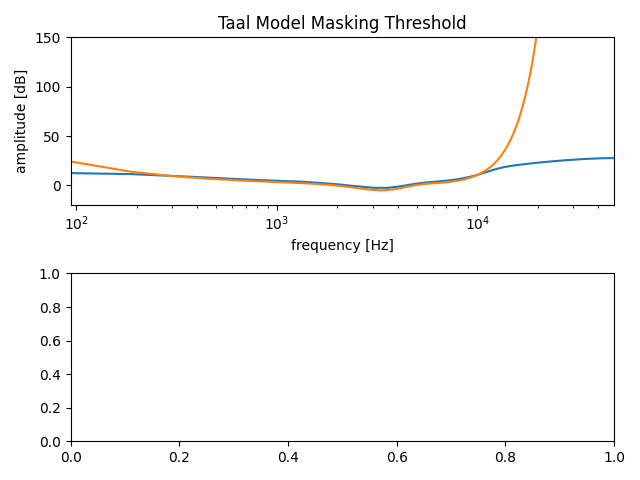
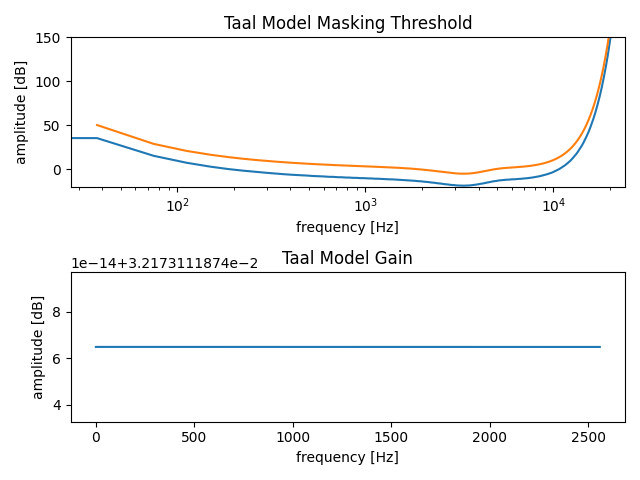
Changes

diff --git a/taal_model.py b/taal_model.py
@@ -3,6 +3,8 @@ import scipy as sp
 import scipy.signal
 import scipy.optimize
 
+import matplotlib.pyplot as plt
+
 from auditory_filter_bank import auditory_filter_bank
 from signal_pressure_mapping import signal_pressure_mapping
 from lowpass_filter import lowpass_filter
@@ -24,44 +26,44 @@ class taal_model:
         self.mapping = signal_pressure_mapping(1, 100)
 
         # Compute ear filter bank
-        self.auditory_filter_bank_freq = auditory_filter_bank(self.frequency_axis, 
-                self.sampling_rate, self.mapping).filter_bank
-        self.auditory_filter_bank_time = np.fft.irfft(self.auditory_filter_bank_freq)
-        self.N_auditory_filter = self.auditory_filter_bank_time[0].size
+        self.auditory_filter_bank_freq = auditory_filter_bank(
+                self.frequency_axis, 
+                self.sampling_rate, 
+                self.mapping, 
+                N_filters=self.N_filters, 
+                filter_order=self.filter_order).filter_bank
+
+        self.auditory_filter_bank_time = np.fft.irfft(self.auditory_filter_bank_freq, n=N_samples, axis=1)
         
         # Compute lowpass filter
-        self.N_convolved = self.N_samples + self.N_auditory_filter - 1
+        self.N_convolved = 2 * self.N_samples - 1
         self.convolved_frequency_axis = np.fft.rfftfreq(self.N_convolved, 1 / self.sampling_rate);
         self.lowpass_freq = lowpass_filter(self.convolved_frequency_axis, 1000, self.sampling_rate).filter_freq
-        self.lowpass_time = np.fft.irfft(self.lowpass_freq)
 
         # Coefficients
-        training_rate = 10000
+        training_rate = 1000
         sine_base = np.cos(2 * np.pi * training_rate / sampling_rate * np.arange(0, self.N_samples))
         sine_base_internal = self.__internal_representation(sine_base)
         sine_threshold_in_quiet = threshold_in_quiet(training_rate, self.mapping) * sine_base
         sine_threshold_in_quiet_internal = self.__internal_representation(sine_threshold_in_quiet)
         sine_masker = self.mapping.pressure_to_signal(70) * sine_base
         sine_masker_internal = self.__internal_representation(sine_masker)
-        sine_masked = self.mapping.pressure_to_signal(52) * sine_base
+        sine_masked = self.mapping.pressure_to_signal(69) * sine_base
         sine_masked_internal = self.__internal_representation(sine_masked)
-
         
         helper_function = lambda x, C2 : C2 * sum(np.linalg.norm(x, 1.0, axis=1))
         bisection_function = lambda C2 : helper_function(sine_masked_internal / (sine_masker_internal +
             helper_function(sine_threshold_in_quiet_internal, C2)), C2) - 1
 
         self.C2 = sp.optimize.bisect(bisection_function, 0, 100000)
-        print(self.C2)
         self.C1 = helper_function(sine_threshold_in_quiet_internal, self.C2)
-        print(self.C1)
 
     def gain_function(self, x):
         g = np.zeros((self.N_filters, self.N_convolved))
         y = self.__internal_representation(x)
         for i in range(0, self.N_filters):
             # Determine energy ratio
-            fr   = self.C2 / (y[i] + self.C1)
+            fr = (self.C2 * np.ones(self.N_convolved)) / (y[i] + self.C1 * np.ones(self.N_convolved))
             # Return filtered energy ratio
             g[i] = np.sqrt(np.fft.irfft(np.fft.rfft(fr) * self.lowpass_freq, n=self.N_convolved))
 
@@ -70,27 +72,26 @@ class taal_model:
     def __internal_representation(self, x):
         y = np.zeros((self.N_filters, self.N_convolved))
         for i in range(0, self.N_filters):
-            xi   = np.convolve(x, self.auditory_filter_bank_time[i])
-            y[i] = np.fft.irfft(np.fft.rfft(np.power(np.abs(xi), 2.0)) * self.lowpass_freq, n=self.N_convolved)
+            xi   = np.power(np.abs(np.convolve(x, self.auditory_filter_bank_time[i])), 2.0)
+            y[i] = np.fft.irfft(np.fft.rfft(xi) * self.lowpass_freq, n=self.N_convolved)
 
         return y;
 
     def detectability(self, x, e):
-        D = 0
-        g = self.gain_function(x)
-        for i in range(0, self.N_filters):
-            # Determine auditory-filtered e
-            ei = np.convolve(e, self.auditory_filter_bank_time[i])
-            D  = D + (np.linalg.norm(g[i] * ei) ** 2)
-
+        D = self.C2 * sum(np.linalg.norm((self.__internal_representation(e)) / (self.__internal_representation(x) + self.C1), 1.0, axis=1))
+        print(D)
         return D
 
-
     def masking_threshold(self, x):
-        t = np.zeros(self.convolved_frequency_axis.size)
-        for i in range(0, self.convolved_frequency_axis.size):
-            f = self.convolved_frequency_axis[i]
-            e = np.cos(2 * np.pi * f * np.arange(0, self.N_samples) / self.sampling_rate)
-            t[i] = 1 / np.sqrt(self.detectability(x, e))
+        gi = self.gain_function(x)
+        w  = np.power(sp.signal.windows.hann(self.N_convolved), 2.0)
+        t  = np.zeros(self.frequency_axis.size)
+        for k in range(0, self.frequency_axis.size):
+            s  = 0
+            for i in range(0, self.N_filters):
+                gih = np.fft.fft(w * gi[i])
+                hh = np.fft.fft(self.auditory_filter_bank_time[i])
+                s = s + np.power(hh[k], 2.0) * (0.5 * gih[0] + np.real(gih[2 * k]))
+            t[k] = 1 / np.sqrt(s)
 
         return t

diff --git a/test_auditory_filter_bank.py b/test_auditory_filter_bank.py
@@ -4,13 +4,14 @@ import numpy as np
 
 from auditory_filter_bank import auditory_filter_bank
 from signal_pressure_mapping import signal_pressure_mapping
+from threshold_in_quiet import threshold_in_quiet_db
 
 # Create a test-plot of the auditory filter bank
 def test_auditory_filter_bank_plot():
     # Define problem parameters
-    N_fft = 1024
+    N_fft = 10240
     N_filters = 64
-    sampling_rate = 96000.0
+    sampling_rate = 48000.0
     mapping = signal_pressure_mapping(1, 100)
 
     # Define x-axis
@@ -25,7 +26,7 @@ def test_auditory_filter_bank_plot():
     fig, axs = mpl.subplots(2)
 
     for auditory_filter_freq in auditory_filter_bank_freq:
-        axs[0].plot(frequencies, 20 * np.log10(np.abs(auditory_filter_freq)))
+        axs[0].semilogx(frequencies, 20 * np.log10(np.abs(auditory_filter_freq)))
 
     axs[0].set_title("Frequency Domain Auditory Filters")
     axs[0].set_xlabel("frequency [Hz]")
@@ -42,6 +43,21 @@ def test_auditory_filter_bank_plot():
 
     fig.tight_layout()
     fig.savefig("plots/test_auditory_filter_bank_plot.png")
+
+    # Create plots
+    fig, axs = mpl.subplots(1)
+
+    auditory_filter_bank_freq_sum = sum(np.abs(auditory_filter_bank_freq)) 
+    axs.semilogx(frequencies, mapping.signal_to_pressure(1 / auditory_filter_bank_freq_sum))
+    axs.semilogx(frequencies, threshold_in_quiet_db(frequencies))
+
+    axs.set_title("Frequency Domain Auditory Filters")
+    axs.set_xlabel("frequency [Hz]")
+    axs.set_ylabel("amplitude [dB]")
+    axs.set_xlim(min(frequencies[1:]), max(frequencies)) 
+
+    fig.tight_layout()
+    fig.savefig("plots/test_auditory_filter_bank_plot_inverted.png")
 
     # If execution makes it this far, the test has passed.
     assert True

diff --git a/test_taal_model.py b/test_taal_model.py
@@ -8,26 +8,33 @@ from threshold_in_quiet import threshold_in_quiet_db
 
 def test_taal_model():
     # Define problem parameters
-    N_samples = 512
-    sampling_rate = 96000.0
-    model = taal_model(sampling_rate, N_samples)
+    N_samples = 12800
+    sampling_rate = 48000.0
+    model = taal_model(sampling_rate, N_samples, N_filters=64)
     mapping = signal_pressure_mapping(1, 100)
 
     # Create masking threshold
     x = np.zeros(N_samples)
     threshold_freq = model.masking_threshold(x)
+    gain = model.gain_function(x)
 
     # Test
     fig, axs = mpl.subplots(2)
 
-    axs[0].semilogx(model.convolved_frequency_axis, mapping.signal_to_pressure(threshold_freq))
-    axs[0].semilogx(model.convolved_frequency_axis, threshold_in_quiet_db(model.convolved_frequency_axis))
+    axs[0].semilogx(model.frequency_axis, mapping.signal_to_pressure(threshold_freq))
+    axs[0].semilogx(model.frequency_axis, threshold_in_quiet_db(model.frequency_axis))
     axs[0].set_title("Taal Model Masking Threshold")
     axs[0].set_xlabel("frequency [Hz]")
     axs[0].set_ylabel("amplitude [dB]")
-    print(model.convolved_frequency_axis)
-    axs[0].set_xlim(min(model.convolved_frequency_axis[1:]), max(model.convolved_frequency_axis)) 
+    axs[0].set_xlim(min(model.frequency_axis), max(model.frequency_axis)) 
     axs[0].set_ylim(-20, 150) 
+
+    axs[1].plot(gain[0,:])
+    axs[1].set_title("Taal Model Gain")
+    axs[1].set_xlabel("frequency [Hz]")
+    axs[1].set_ylabel("amplitude [dB]")
+    # axs[1].set_xlim(min(model.convolved_frequency_axis), max(model.convolved_frequency_axis)) 
+    # axs[1].set_ylim(-20, 150) 
 
     fig.tight_layout()
     fig.savefig("plots/test_taal_model.png")

diff --git a/auditory_filter_bank.py b/auditory_filter_bank.py
@@ -16,8 +16,7 @@ class auditory_filter_bank:
         self.__filter_order = filter_order
 
         # Create filters
-        self.__gammatone_filter_bank = gammatone_filter_bank(self.__frequencies, self.__sampling_rate,
-                N_filters=self.__N_filters)
+        self.__gammatone_filter_bank = gammatone_filter_bank(self.__frequencies, self.__sampling_rate, N_filters=self.__N_filters)
         self.__outer_middle_ear_filter = outer_middle_ear_filter(self.__frequencies, self.__mapping)
 
         # Pre-allocate bank

diff --git a/gammatone_filter_bank.py b/gammatone_filter_bank.py
@@ -14,6 +14,7 @@ class gammatone_filter_bank:
 
         # calculate center frequencies
         self.__center_frequencies = erbspace(0, self.__sampling_rate / 2, self.__N_filters) 
+        print(self.__center_frequencies)
 
         # Pre-allocate bank
         self.filter_bank = np.zeros((self.__N_filters, self.__frequencies.size))

diff --git a/test_threshold_in_quiet.py b/test_threshold_in_quiet.py
@@ -7,7 +7,7 @@ from signal_pressure_mapping import signal_pressure_mapping
 
 def test_outer_threshold_in_quiet():
     # Define problem parameters
-    N_fft = 10240
+    N_fft = 1024
     sampling_rate = 48000.0
     mapping = signal_pressure_mapping(1, 100)
 
